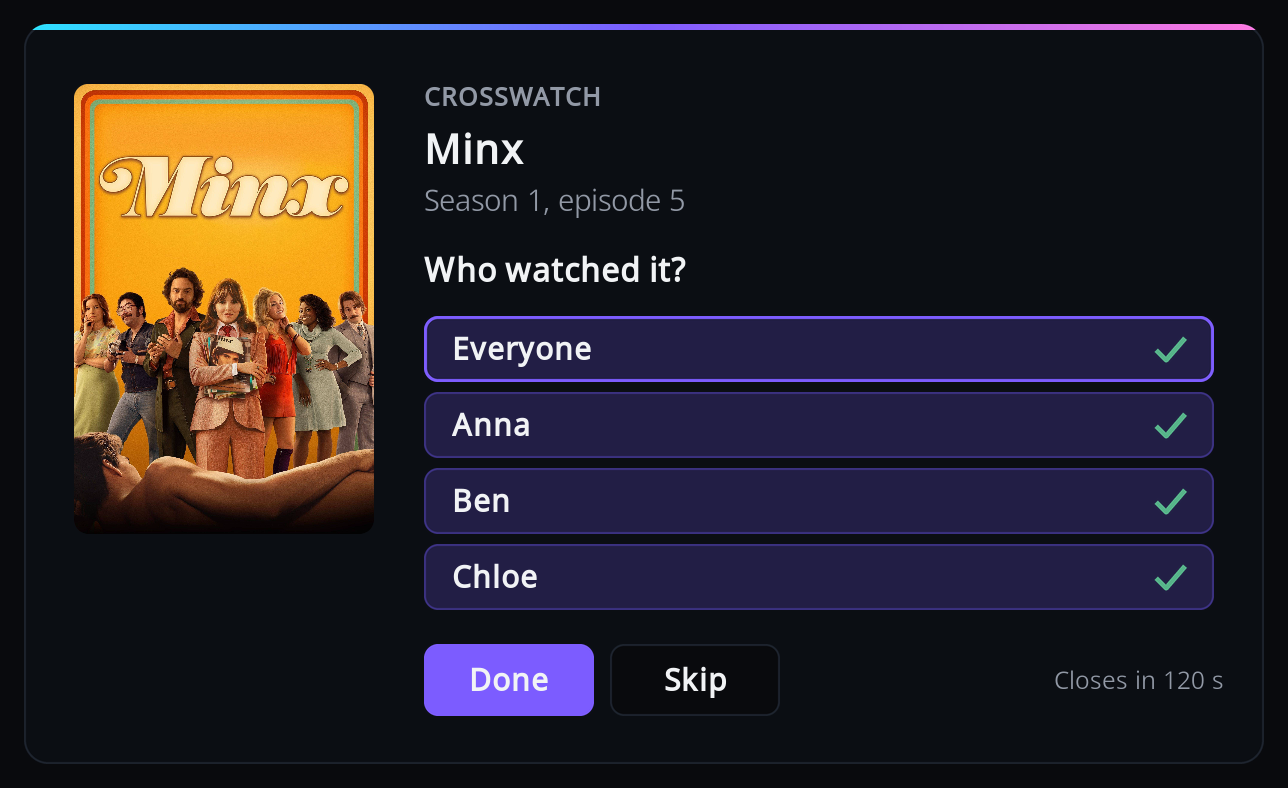
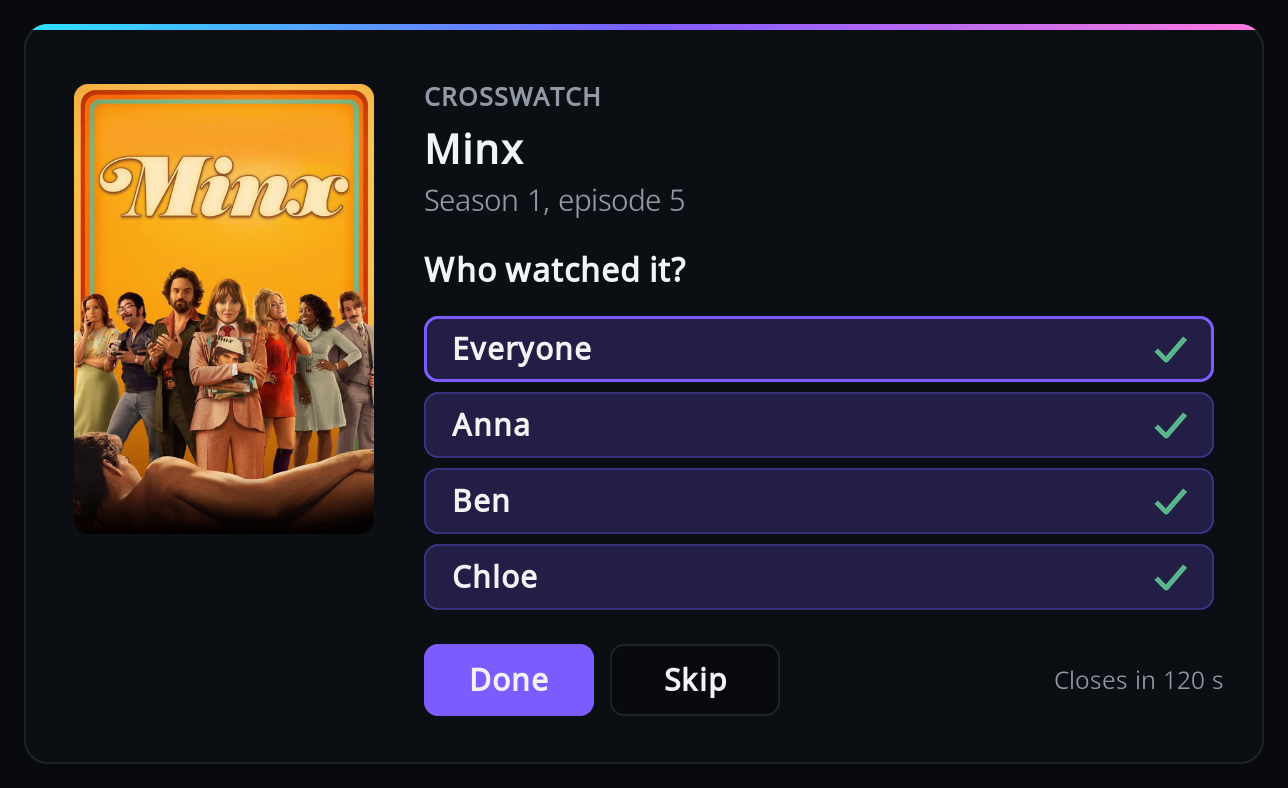
Show a scrollbar when the viewer list has more rows
The list holds Everyone and three names, so a household of four
already has someone out of sight. A thin bar at the list's edge,
hidden when everything fits, shows there is more below.

Changed region(s): [[0.0621, 0.3655, 0.2795, 0.5482], [0.0621, 0.5482, 0.0932, 0.5787], [0.0621, 0.2132, 0.0932, 0.2437]]

diff --git a/tests/test_skin_xml.py b/tests/test_skin_xml.py
@@ -62,3 +62,12 @@ def test_no_include_or_named_colour_is_used():
     assert "<include" not in text
     for colour in re.findall(r"<(?:textcolor|focusedcolor)>([^<]*)<", text):
         assert re.fullmatch(r"[0-9A-F]{8}", colour), colour
+
+
+def test_the_viewer_list_shows_when_there_are_more_rows():
+    """The list holds Everyone and three names; a fourth viewer is already out of sight."""
+    page = _control("200").findtext("pagecontrol")
+    assert page is not None
+    scrollbar = _control(page)
+    assert scrollbar.get("type") == "scrollbar"
+    assert scrollbar.findtext("showonepage") == "false"
